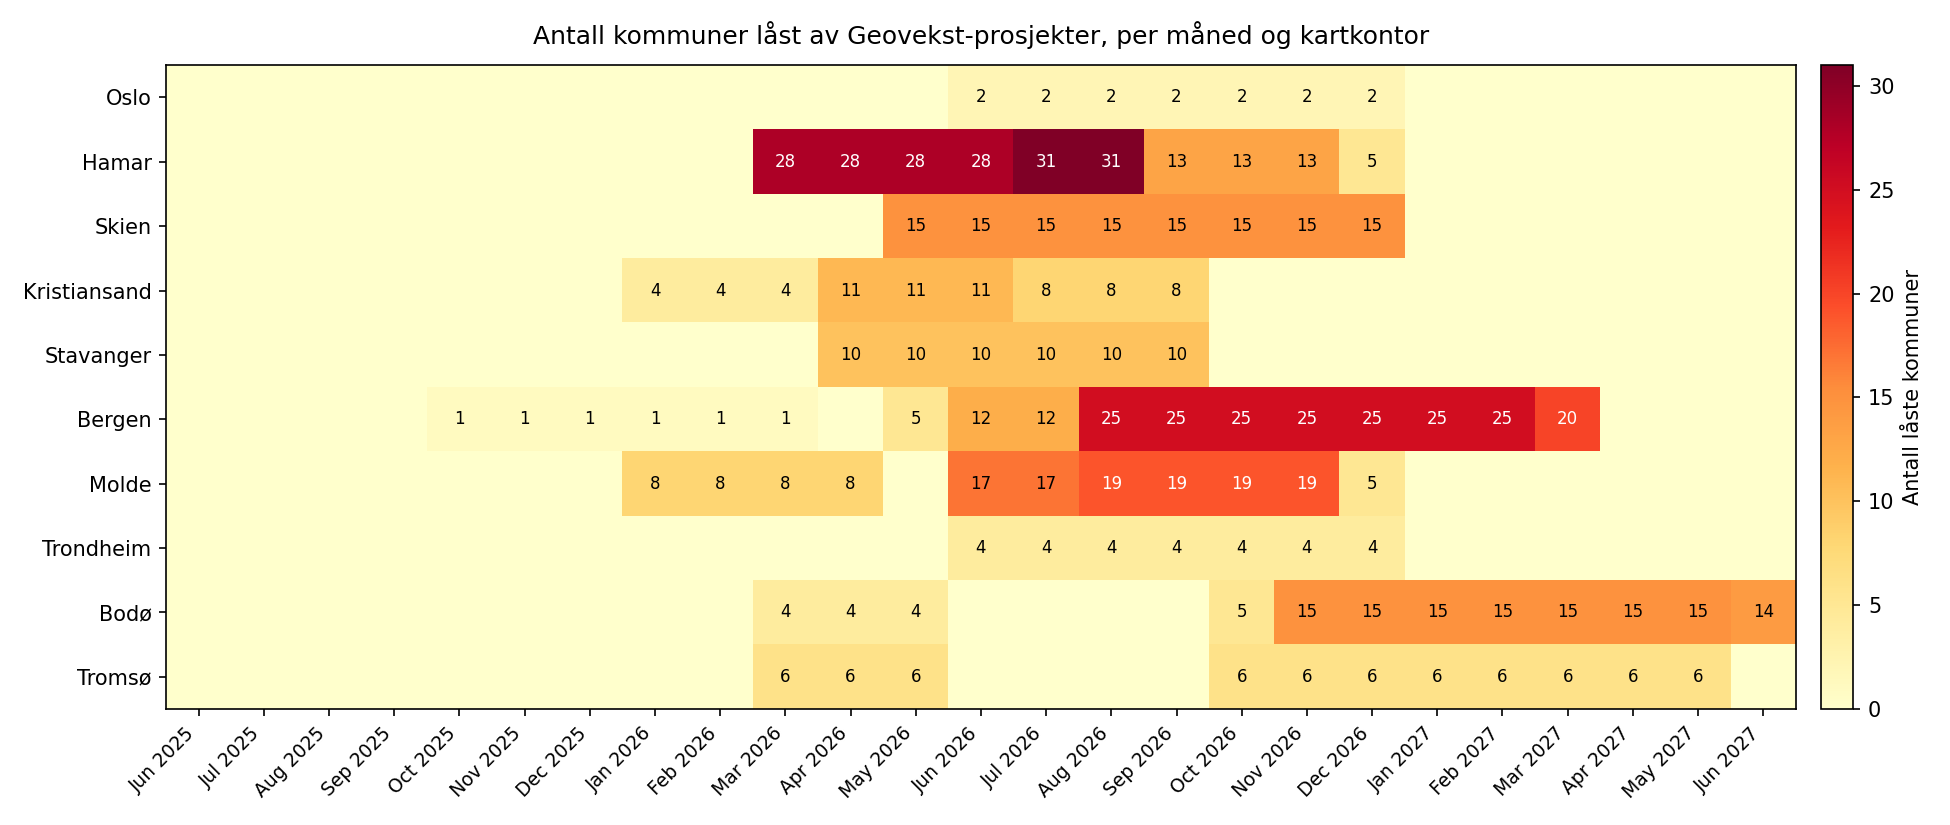
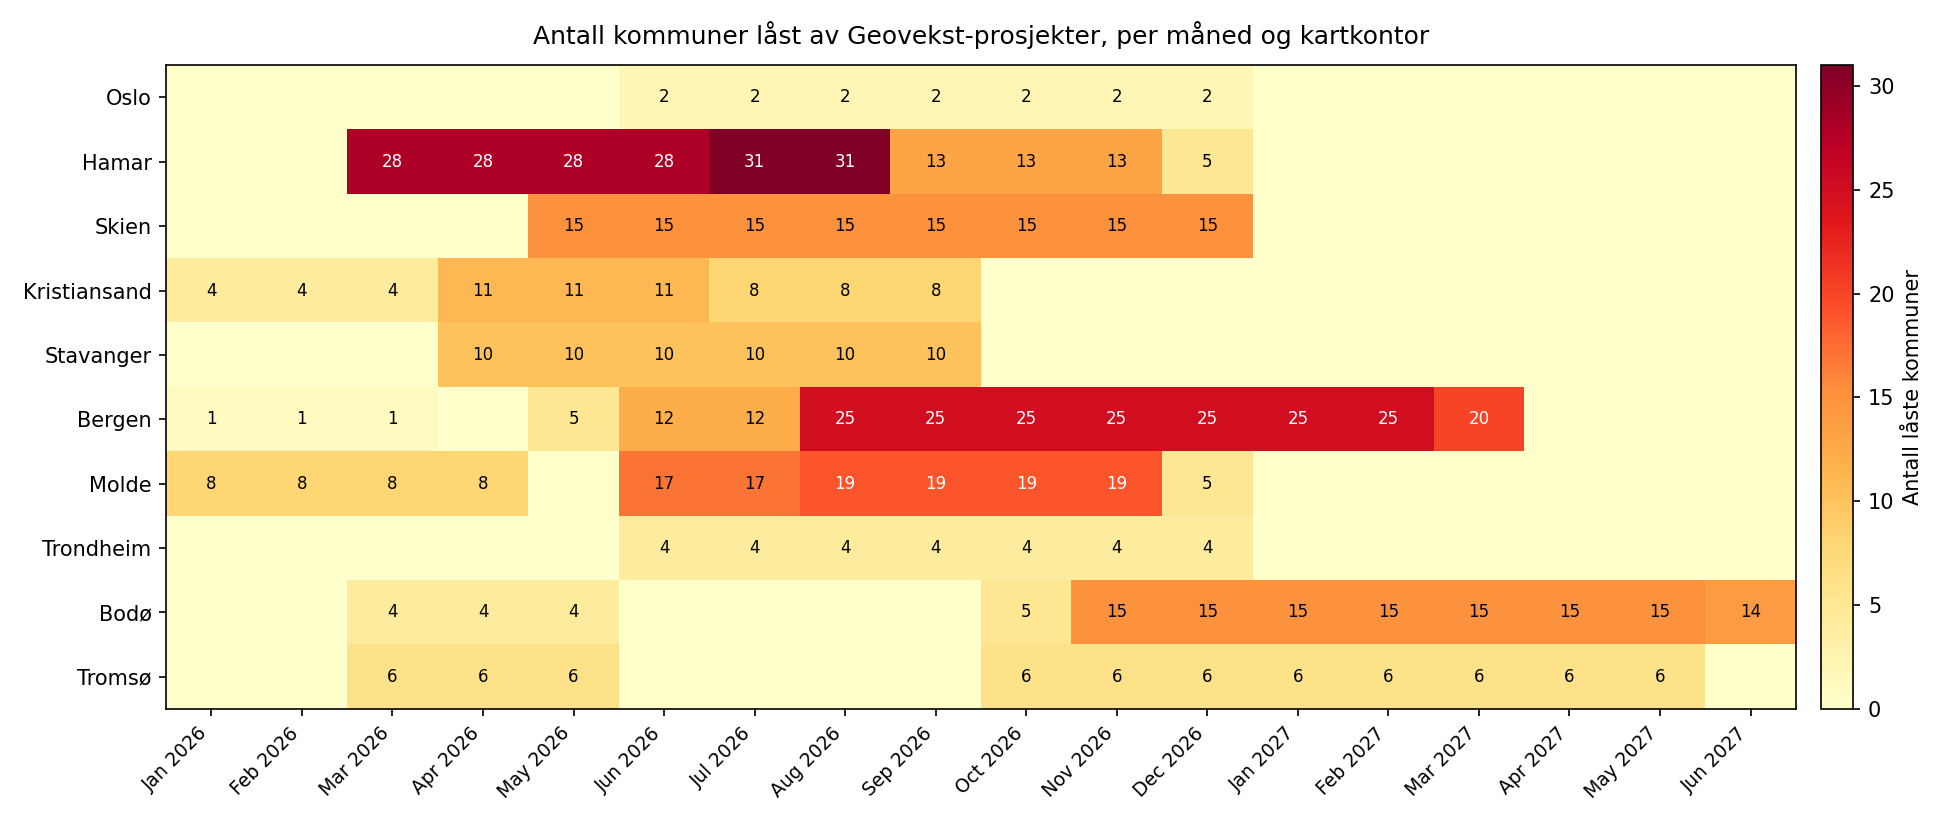
rapport: korrektur kap. 2-8 + fiks figur 4.4-akse
Tung fakta-sjekk av kap. 2-8 mot CSV-er og kode. Tre faktarettelser:
- 4.5: Geovekst-laaseperiode-spenn rettet fra "mars 2026 til mars 2027"
  til "januar 2026 til juni 2027" (faktisk slutt: Bodoe juni 2027)
- 5.1.5: "halverer" -> "reduserer til omtrent en fjerdedel (10 -> 2,7 aar)"
  (85->96 % automasjon gir 4x, ikke 2x)
- 5.2.3: "maksimalt 0,5 min" -> "om lag 0,5 min" (faktisk maks 0,525)

Figur 4.4: ekskluder ugyldige laaseperioder (LACIVL03-typo Slutt<Start)
fra akseberegning og klipp visning til jan 2026, slik at aksen ikke
starter med tomme kolonner i 2025. Regenerert PNG.

diff --git a/004 data/scripts/figurer.py b/004 data/scripts/figurer.py
@@ -362,12 +362,18 @@ def fig4_geovekst_heatmap(geovekst):
     df['Laaseperiode_Start'] = pd.to_datetime(df['Laaseperiode_Start'])
     df['Laaseperiode_Slutt'] = pd.to_datetime(df['Laaseperiode_Slutt'])
     df = df.dropna(subset=['Laaseperiode_Start', 'Laaseperiode_Slutt'])
+    # Utelat ugyldige perioder (Slutt < Start, jf. LACIVL03-datatypo) slik at
+    # de ikke drar tidsaksen kunstig bakover
+    df = df[df['Laaseperiode_Slutt'] >= df['Laaseperiode_Start']]
 
     # Dedupliser: én kommune kan være i flere prosjekter, tell unike KomNr
     df = df.drop_duplicates(subset=['KomNr', 'Laaseperiode_Start',
                                      'Laaseperiode_Slutt'])
 
     start_min = df['Laaseperiode_Start'].min().replace(day=1)
+    # Klipp visningen til prosjektåret; ett enkelt prosjekt (1 kommune) i
+    # okt-des 2025 er ikke beslutningsrelevant og gir bare tomme kolonner
+    start_min = max(start_min, pd.Timestamp('2026-01-01'))
     slutt_max = df['Laaseperiode_Slutt'].max()
     maaneder = pd.date_range(start_min, slutt_max, freq='MS')
 

diff --git a/005 report/rapport.md b/005 report/rapport.md
@@ -307,7 +307,7 @@ Av 357 kommuner er 62 ferdig kvalitetshevet, 48 påbegynt og 247 ikke startet. I
 
 ## 4.5 Geovekst-låsing
 
-Parallelt med TVS-prosjektet pågår ordinære Geovekst-kartleggingsprosjekter i flere kommuner. Under kartleggingsperiodene er kommunene låst for TVS-kvalitetsheving fordi dataene er under endring. I april 2026 er 152 kommuner berørt av slike låsninger, og låseperiodene strekker seg fra mars 2026 til mars 2027. Heatmap-cellen i figur 4.4 angir antall unike kommuner under hvert kontor som er i aktiv låseperiode den aktuelle måneden. De fleste låsningene er konsentrert om sommer og høst 2026, med enkelte prosjekter som fortsetter inn i 2027. Planleggingen må hensynta at låste kommuner ikke kan behandles før låseperioden er over.
+Parallelt med TVS-prosjektet pågår ordinære Geovekst-kartleggingsprosjekter i flere kommuner. Under kartleggingsperiodene er kommunene låst for TVS-kvalitetsheving fordi dataene er under endring. I april 2026 er 152 kommuner berørt av slike låsninger, og låseperiodene strekker seg fra januar 2026 til juni 2027. Heatmap-cellen i figur 4.4 angir antall unike kommuner under hvert kontor som er i aktiv låseperiode den aktuelle måneden. De fleste låsningene er konsentrert om sommer og høst 2026, med enkelte prosjekter som fortsetter inn i 2027. Planleggingen må hensynta at låste kommuner ikke kan behandles før låseperioden er over.
 
 ![Figur 4.4: Antall kommuner låst av Geovekst per måned og kontor](figurer/04_geovekst_heatmap.png)
 
@@ -391,7 +391,7 @@ Tre NVDB-scenarioer undersøkes, differensiert på FME-automasjonsgrad som er de
 |      90 %      |            1 500            | Samferdselsavdelingens oppgitte parametere (kalibreringspunkt)               |
 |      96 %      |            3 750            | Optimistisk øvre grense, bakoverregnet for å treffe et 2-års-mål         |
 
-Samferdselsavdelingen opererer selv kun med 80–90 %. 96 %-scenarioet er dermed ikke deres tall, men en hypotetisk målsetning bakoverregnet fra et 2-års-mål: gitt fast manuell kapasitet (0,5 årsverk × 300 lenker/dag) er ~96 % det laveste automasjonsnivået som via NVDB-formelen i 5.1.4 holder de gjenstående ~2,1 mill. lenkene innenfor 2 år. Modellens punktestimat på ~2,7 år (kap. 7.1, jf. tabell 7.1) ligger over 2 fordi 96 % er rundet ned fra ~96,3 % og fordi modellens 260-dagers konvensjon avviker fra samferdselsavdelingens 240 (jf. 5.1.2). Dette gir Kartverket et argument for FME-investering: å nå fra 85 % til 96 % automasjonsgrad halverer total prosjektvarighet.
+Samferdselsavdelingen opererer selv kun med 80–90 %. 96 %-scenarioet er dermed ikke deres tall, men en hypotetisk målsetning bakoverregnet fra et 2-års-mål: gitt fast manuell kapasitet (0,5 årsverk × 300 lenker/dag) er ~96 % det laveste automasjonsnivået som via NVDB-formelen i 5.1.4 holder de gjenstående ~2,1 mill. lenkene innenfor 2 år. Modellens punktestimat på ~2,7 år (kap. 7.1, jf. tabell 7.1) ligger over 2 fordi 96 % er rundet ned fra ~96,3 % og fordi modellens 260-dagers konvensjon avviker fra samferdselsavdelingens 240 (jf. 5.1.2). Dette gir Kartverket et argument for FME-investering: å nå fra 85 % til 96 % automasjonsgrad reduserer total prosjektvarighet til omtrent en fjerdedel (fra ~10 til ~2,7 år).
 
 ### 5.1.6 Monte Carlo-modellen
 
@@ -458,7 +458,7 @@ Koeffisientene kommer fra Tidbruk-fanen i grunndatasettet og dokumenterer hvorda
 - **0,9035 min/km lenke:** empirisk gjennomsnitt av målt tidsbruk per kilometer TVS-lenke, utledet fra registreringer av faktisk tidsbruk på 58 kartblader.
 - **0,6510 min/km² landareal:** standardtillegg for kommunens landareal ("grunnpakke"), som fanger opp arbeid som ikke skalerer direkte med lenkelengde (nettverkskontroll, topologisk kontroll, arkivarbeid m.m.).
 
-Formelen er verifisert numerisk ved at det rekalkulerte Ber_Tidbruk_Min avviker med median 0,2 minutter og maksimalt 0,5 minutter fra oppgitt verdi for alle 357 kommuner. De 58 kartbladmålingene viser samtidig betydelig spredning i MIN/KM: fra 0,10 til 3,44 med standardavvik 0,55, omtrent 60 % av gjennomsnittet. Dette betyr at `Ber_Tidbruk_Min` er et punktestimat basert på en gjennomsnittssats, og reell tidsbruk per kommune kan avvike betydelig. Denne empiriske variasjonen danner grunnlag for usikkerhetsvurdering i modellen.
+Formelen er verifisert numerisk ved at det rekalkulerte Ber_Tidbruk_Min avviker med median 0,2 minutter og maksimalt om lag 0,5 minutter fra oppgitt verdi for alle 357 kommuner. De 58 kartbladmålingene viser samtidig betydelig spredning i MIN/KM: fra 0,10 til 3,44 med standardavvik 0,55, omtrent 60 % av gjennomsnittet. Dette betyr at `Ber_Tidbruk_Min` er et punktestimat basert på en gjennomsnittssats, og reell tidsbruk per kommune kan avvike betydelig. Denne empiriske variasjonen danner grunnlag for usikkerhetsvurdering i modellen.
 
 ### 5.2.4 Behandlede datasett
 
